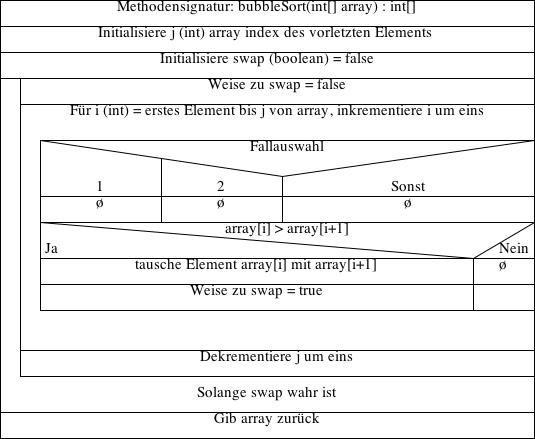
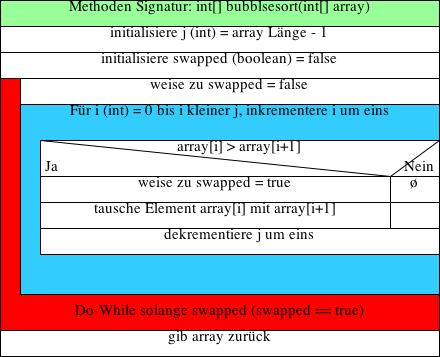
Korrekturen Datenstrukturen und Sortieralgorithmen

diff --git a/WWI2016SEA/src/kapitel12/SortierAlgorithmen.java b/WWI2016SEA/src/kapitel12/SortierAlgorithmen.java
@@ -1,0 +1,56 @@
+package kapitel12;
+
+public class SortierAlgorithmen {
+
+	private static int[] zuSortieren = {90, 70, 50, 30, 80, 60}; 
+	
+	public static int[] bubblesort(int[] array){
+		
+		long startZeit = System.currentTimeMillis();
+		
+		int j = array.length - 1; 	// Vorletzte Element des Arrays
+		boolean swapped = false; 	// Variable um festzustellen ob in einem durchlauf getauscht wurde 
+		
+		do{
+			swapped = false;			// sollte innerhalb einer gesamten Iterration (von 0 bis j) kein Wert vertauscht worden sein, bleibt swapped auf false und das Array ist sortiert
+			for(int i = 0; i < j; i++){
+				if(array[i] > array[i+1]){
+					swap(array, i, i+1);
+					swapped = true;
+				}
+			}
+			j--; 					// es muss immer ein Element weniger betrachtet werden, weil das Ende immer weiter sortiert ist
+		}while(swapped);
+		
+		long endZeit = System.currentTimeMillis();
+		
+		System.out.println("BubbleSort Laufzeit für " + array.length + " Elemente: " + (endZeit - startZeit) + "ms");
+		
+		return array;
+	}
+	
+	
+	private static void swap(int[] array, int a, int b){
+		int temp = array[a];
+		array[a] = array[b];
+		array[b] = temp;
+	}
+	
+	private static void printArray(int[] array){
+		System.out.print("Array-Ausgabe: " );
+		for(int i : array){
+			System.out.print(i + ", ");
+		}
+		System.out.println();
+	}
+	
+	public static void main(String[] args) {
+		System.out.println("Unsortiert:");
+		printArray(zuSortieren);
+		
+		System.out.println("BubbleSort:");
+		printArray(bubblesort(zuSortieren.clone()));
+
+	}
+
+}

diff --git a/WWI2016SEA/src/kapitel12/TestSortierAlgorithmen.java b/WWI2016SEA/src/kapitel12/TestSortierAlgorithmen.java
@@ -1,0 +1,74 @@
+package kapitel12;
+
+import static org.junit.Assert.*;
+
+import org.junit.After;
+import org.junit.AfterClass;
+import org.junit.Before;
+import org.junit.BeforeClass;
+import org.junit.Test;
+
+public class TestSortierAlgorithmen {
+
+	static int count = 100000;
+	static int randomRange = 3000000;
+	static int[] toSort = null;
+	
+	@BeforeClass
+	public static void setUpBeforeClass() throws Exception {
+		// vor allen Tests einmal
+		generateArray();
+	}
+
+	@AfterClass
+	public static void tearDownAfterClass() throws Exception {
+	}
+
+	@Before
+	public void setUp() throws Exception {
+	}
+
+	@After
+	public void tearDown() throws Exception {
+	}
+
+	@Test
+	public void bubbleSortTest() {
+		assertTrue(isSorted(SortierAlgorithmen.bubblesort(toSort.clone())));
+	}
+	
+	private static boolean isSorted(int[] array){
+		for(int i = 0; i < array.length-1; i++){
+			if(array[i] > array[i+1]){
+				return false;
+			}
+		}
+		return true;
+	}
+
+	
+	private static void generateArray(){
+		toSort = new int[count];
+		for(int i = 0; i < count; i++){
+			boolean notInserted = true;
+			while(notInserted){
+				int randomNumber = (int)(Math.random() * randomRange);
+				
+				boolean found = false;
+				for(int j = 0; j < i; j++){
+					if(toSort[j] == randomNumber){
+						found = true;
+						break;
+					}
+				}
+				
+				if(!found){
+					toSort[i] = randomNumber;
+					notInserted = false;
+				}
+				
+			}
+		}
+	}
+
+}

diff --git a/WWI2016SEA/src/kapitel11/doppeltverketteteListe/DoppeltVerketteteListe.java b/WWI2016SEA/src/kapitel11/doppeltverketteteListe/DoppeltVerketteteListe.java
@@ -11,7 +11,13 @@ public class DoppeltVerketteteListe {
 		Knoten neuerKnoten = new Knoten(student);
 		
 		neuerKnoten.setNaechsterKnoten(ersterKnoten);	
+		if(ersterKnoten != null){
+			ersterKnoten.setVorherigerKnoten(neuerKnoten);
+		}
+		
 		ersterKnoten = neuerKnoten;
+		
+		
 		
 		// Liste war bisher leer
 		if(letzterKnoten == null){
@@ -28,7 +34,8 @@ public class DoppeltVerketteteListe {
 			ersterKnoten = neuerKnoten;
 			letzterKnoten = neuerKnoten;
 		}else{
-			letzterKnoten.setNaechsterKnoten(neuerKnoten);	
+			letzterKnoten.setNaechsterKnoten(neuerKnoten);
+			neuerKnoten.setVorherigerKnoten(letzterKnoten);
 			letzterKnoten = neuerKnoten;
 		}
 		

diff --git a/WWI2016SEA/src/kapitel11/tree/Tree.java b/WWI2016SEA/src/kapitel11/tree/Tree.java
@@ -45,7 +45,9 @@ public class Tree {
 	
 	private boolean insert(Knoten aktuellerKnoten, Knoten einzufuegenderKnoten){
 		
-		if(((Comparable<Student>)aktuellerKnoten.getData()).compareTo(einzufuegenderKnoten.getData()) > 0){
+		Comparable<Student> aktuellesVergleichsObjekt = (Comparable<Student>)aktuellerKnoten.getData();
+		
+		if(aktuellesVergleichsObjekt.compareTo(einzufuegenderKnoten.getData()) > 0){
 			if(aktuellerKnoten.getLinkerKnoten() != null){
 				return insert(aktuellerKnoten.getLinkerKnoten(), einzufuegenderKnoten);
 			}else{
